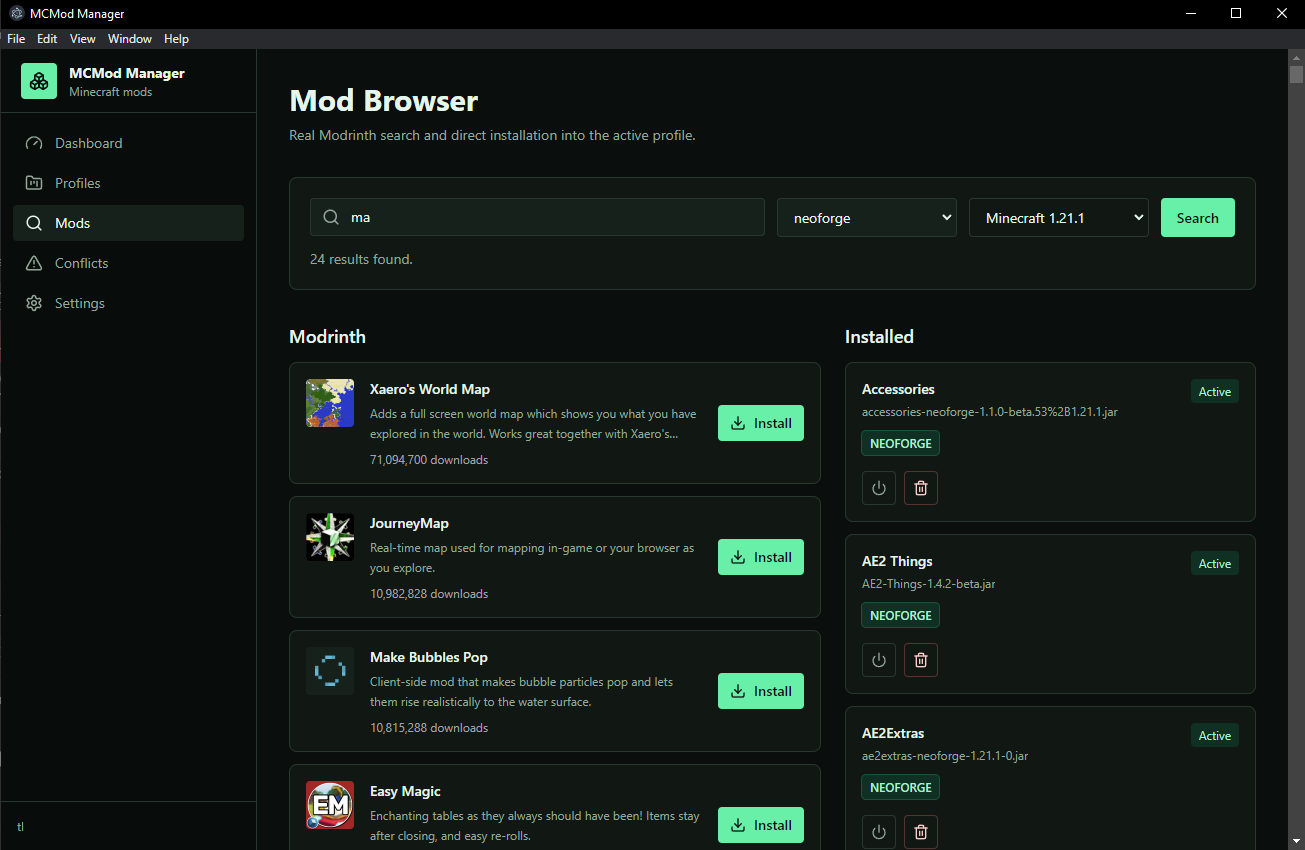
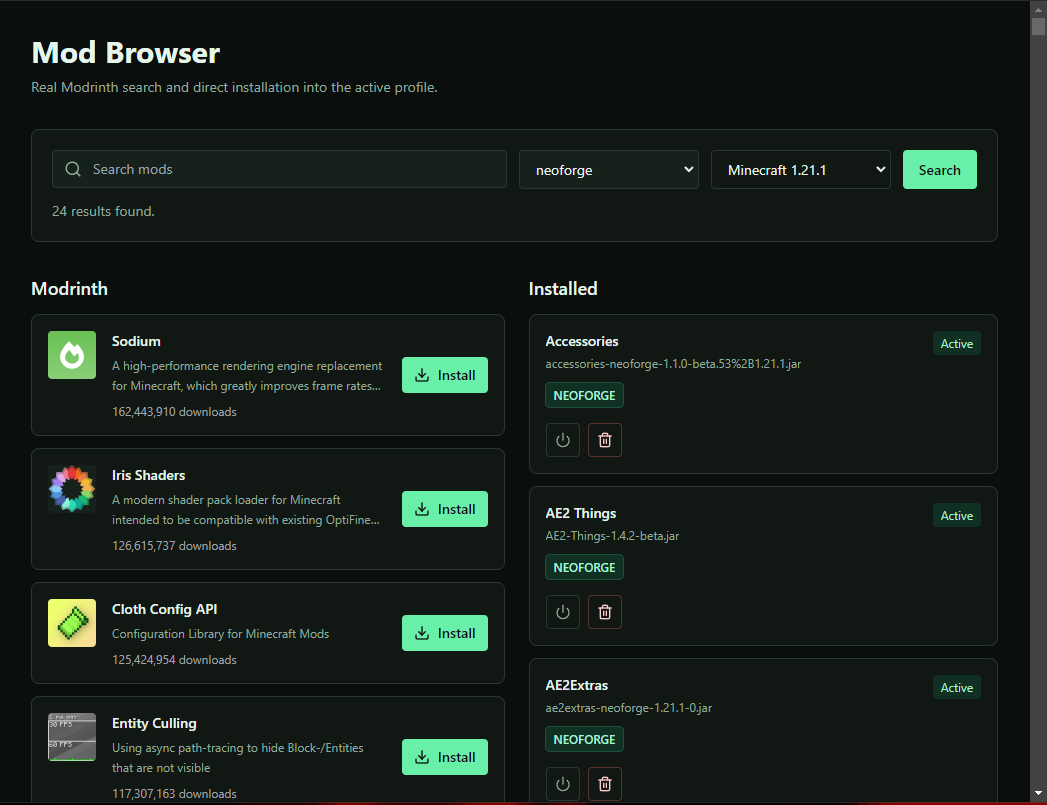
Add installer target and updated screenshots

diff --git a/README.md b/README.md
@@ -22,6 +22,18 @@ https://www.mediafire.com/file/vdoxkdi7b26zneh/MCMod-Manager-0.1.0.exe/file
 
 ![Mod Browser](docs/screenshots/mods.png)
 
+### Modpacks
+
+![Modpacks](docs/screenshots/modpacks.png)
+
+### Resource Packs
+
+![Resource Packs](docs/screenshots/resourcepacks.png)
+
+### Shaders
+
+![Shaders](docs/screenshots/shaders.png)
+
 ### Conflict Center
 
 ![Conflict Center](docs/screenshots/conflicts.png)
